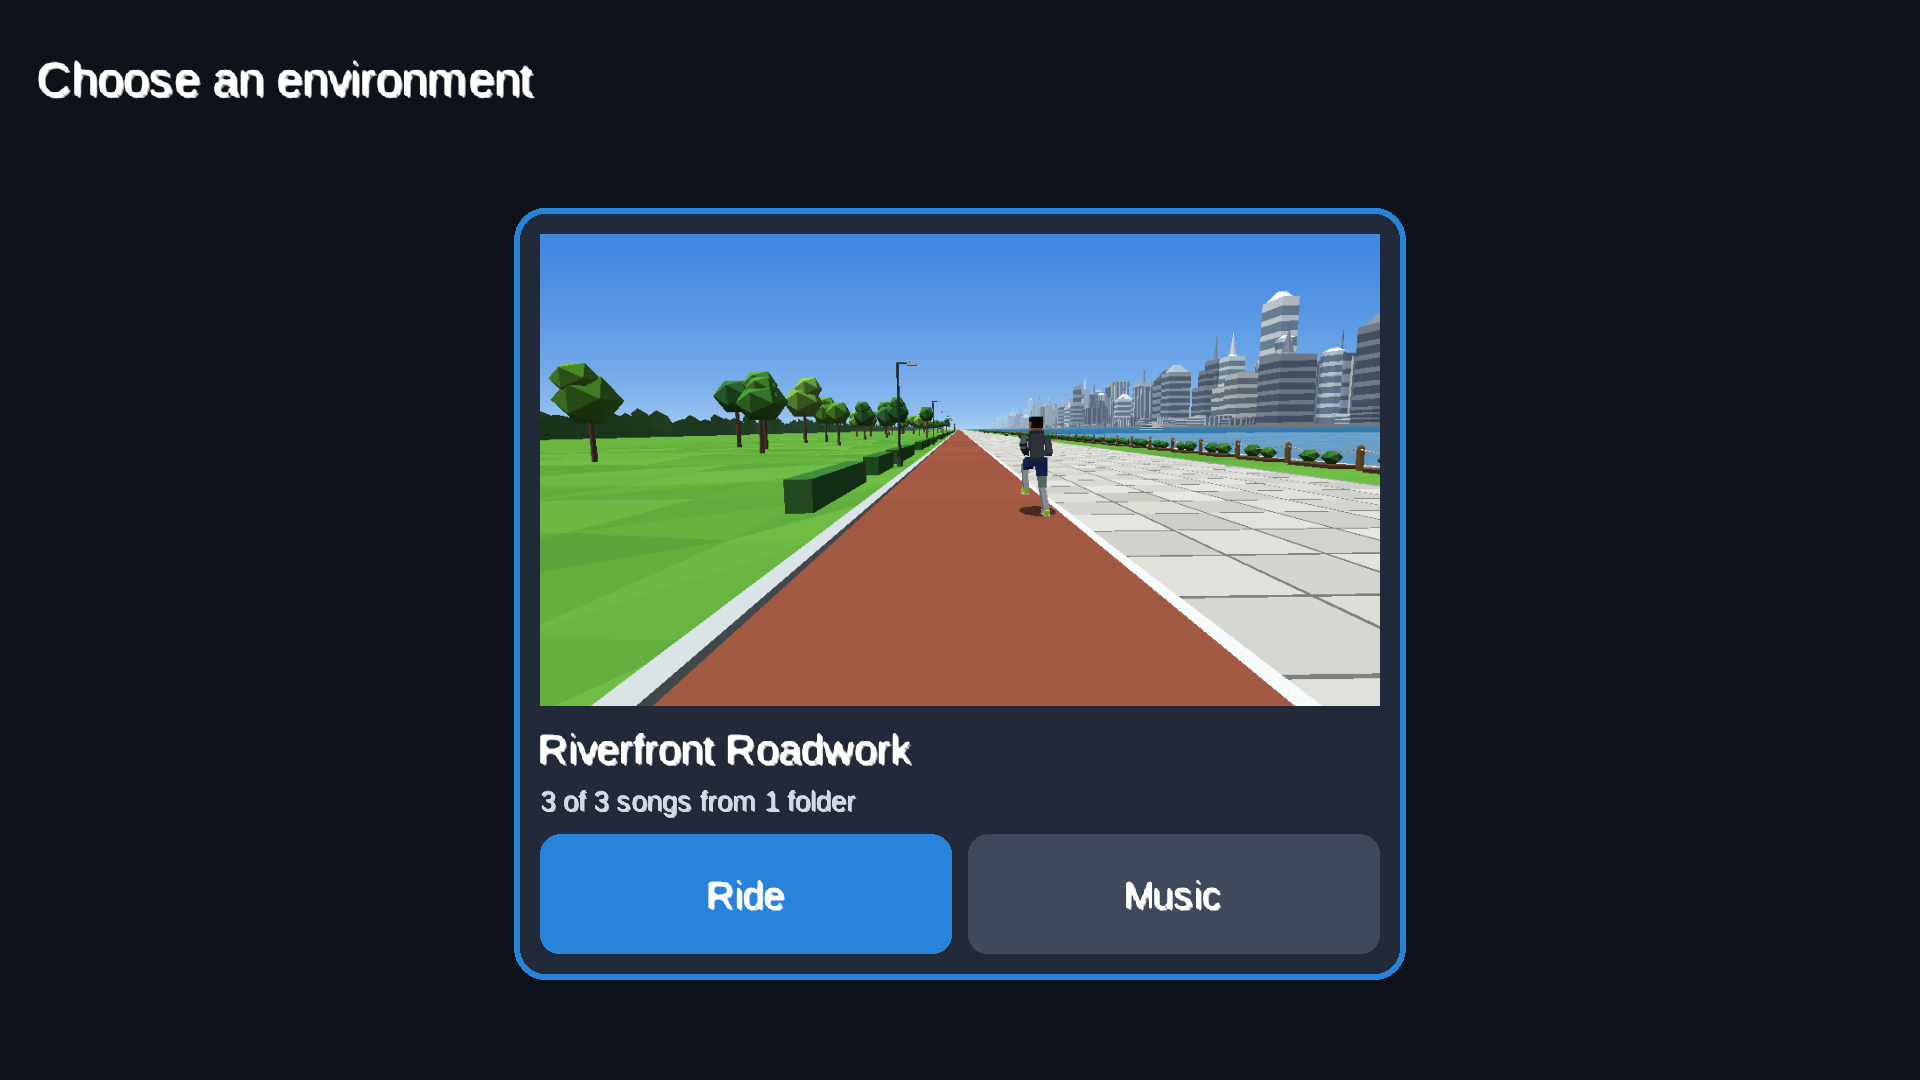
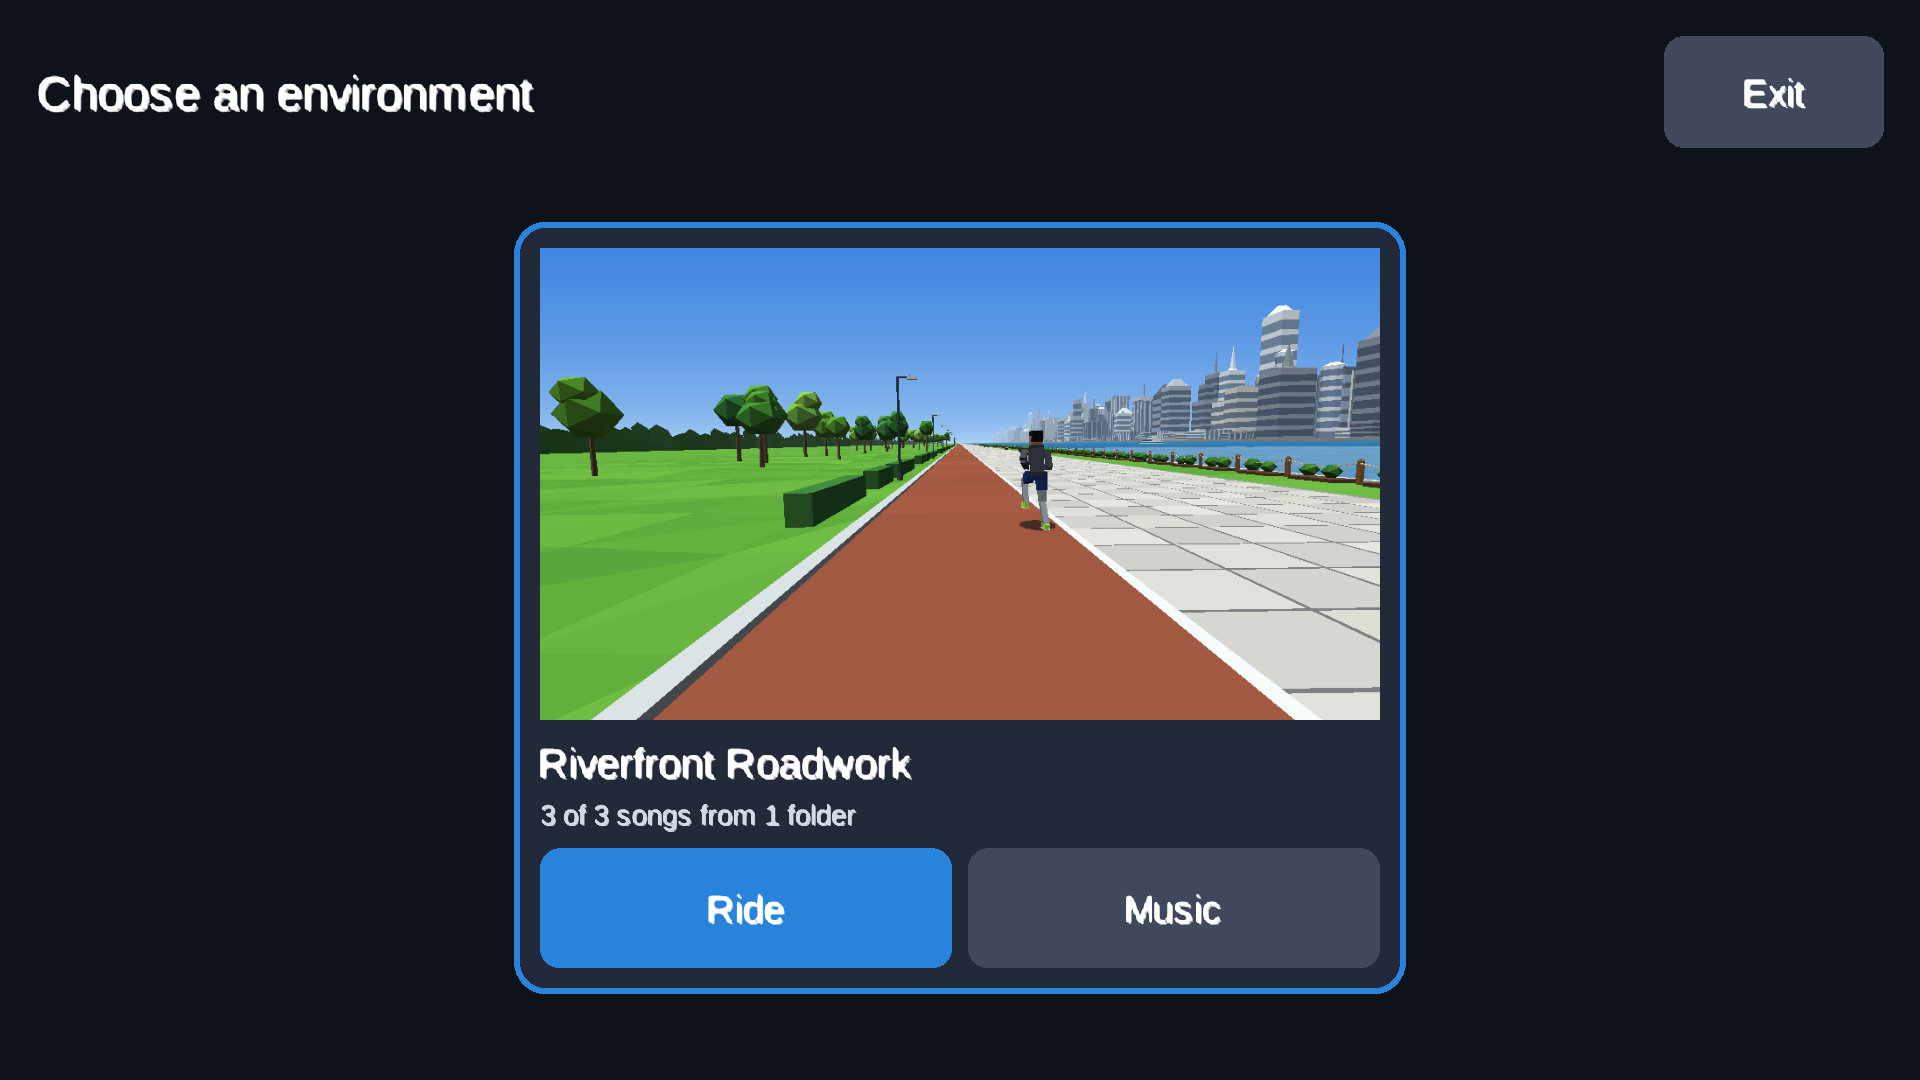
Roadwork: Exit button on the environment picker
The picker, the screen the app opens on, gets an Exit button at the right end of its heading strip. It closes the app the same way the back button and Escape already do. The heading strip grows from 84 to 112 px so the button is a full touch target, which moves the cards down slightly. PickerLayoutTest checks the button's place and size for every card count and screen shape; picker.png is re-rendered.

diff --git a/apps/roadwork/core/src/main/kotlin/dev/soloton/roadwork/Picker.kt b/apps/roadwork/core/src/main/kotlin/dev/soloton/roadwork/Picker.kt
@@ -28,6 +28,8 @@ import dev.soloton.api.PlaylistSummary
  * once into a framebuffer when the picker is shown (no HUD, no handlebars) and kept until it is
  * hidden. [renderPreviews] must be called outside any other framebuffer.
  *
+ * An Exit button at the top right closes the app.
+ *
  * Keys: left/right move the outline, Enter or space rides, M opens music settings, Escape or
  * Android's back button exits.
  */
@@ -61,6 +63,7 @@ internal class Picker(
     private val headerLayout = GlyphLayout()
     private val rideLayout = GlyphLayout()
     private val musicLayout = GlyphLayout()
+    private val exitLayout = GlyphLayout()
     private val titleLayouts = Array(environments.size) { GlyphLayout() }
     private val summaryLayouts = Array(environments.size) { GlyphLayout() }
     private val shownSummaries = arrayOfNulls<PlaylistSummary>(environments.size)
@@ -83,6 +86,7 @@ internal class Picker(
         layoutText(headerLayout, "Choose an environment", SCALE_HEADER, Color.WHITE)
         layoutText(rideLayout, "Ride", SCALE_BUTTON, Color.WHITE)
         layoutText(musicLayout, "Music", SCALE_BUTTON, Color.WHITE)
+        layoutText(exitLayout, "Exit", SCALE_BUTTON, Color.WHITE)
         val titleScale = if (layout.compact) SCALE_TITLE_COMPACT else SCALE_TITLE
         for (i in environments.indices) {
             layoutText(titleLayouts[i], environments[i].title, titleScale, Color.WHITE, layout.cards[i].title.width)
@@ -165,6 +169,8 @@ internal class Picker(
         camera.update()
         shapes.projectionMatrix = camera.combined
         shapes.begin(ShapeRenderer.ShapeType.Filled)
+        shapes.color = BUTTON
+        roundRect(layout.exit.x, layout.exit.y, layout.exit.width, layout.exit.height, 20f)
         for (i in environments.indices) {
             val c = layout.cards[i]
             if (i == highlight) {
@@ -205,6 +211,7 @@ internal class Picker(
         batch.begin()
         val h = layout.header
         drawText(headerLayout, SCALE_HEADER, h.x, h.y + (h.height + headerLayout.height) / 2f)
+        drawCentred(exitLayout, SCALE_BUTTON, layout.exit)
         val titleScale = if (layout.compact) SCALE_TITLE_COMPACT else SCALE_TITLE
         for (i in environments.indices) {
             val c = layout.cards[i]
@@ -263,6 +270,10 @@ internal class Picker(
     override fun touchDown(screenX: Int, screenY: Int, pointer: Int, button: Int): Boolean {
         val x = screenX * layout.width / Gdx.graphics.width
         val y = PickerLayout.HEIGHT - screenY * PickerLayout.HEIGHT / Gdx.graphics.height
+        if (layout.exit.contains(x, y)) {
+            listener.onExit()
+            return true
+        }
         for (i in environments.indices) {
             val c = layout.cards[i]
             when {

diff --git a/apps/roadwork/core/src/main/kotlin/dev/soloton/roadwork/PickerLayout.kt b/apps/roadwork/core/src/main/kotlin/dev/soloton/roadwork/PickerLayout.kt
@@ -9,7 +9,8 @@ import kotlin.math.min
  * tall, as wide as the screen's aspect ratio makes it (1920 at 16:9), origin at the bottom left.
  * Pure maths, so tests can check sizes and overlaps for any number of environments.
  *
- * One to four environments sit in a single row; five to eight in two rows. A card stacks a
+ * A heading strip runs across the top, with the Exit button at its right end. Below it, one to
+ * four environments sit in a single row; five to eight in two rows. A card stacks a
  * preview image, the title, the music summary and two buttons:
  *
  * ```
@@ -38,8 +39,11 @@ class PickerLayout {
     var width = 1920f
         private set
 
-    /** The strip across the top holding the screen's heading. */
+    /** The strip across the top holding the screen's heading and, at its right end, [exit]. */
     val header = Rectangle()
+
+    /** The Exit button, which closes the app. */
+    val exit = Rectangle()
 
     var cards: List<Card> = emptyList()
         private set
@@ -63,6 +67,7 @@ class PickerLayout {
         val buttonH = if (compact) BUTTON_HEIGHT_COMPACT else BUTTON_HEIGHT
 
         header.set(MARGIN, HEIGHT - MARGIN - HEADER_HEIGHT, width - 2 * MARGIN, HEADER_HEIGHT)
+        exit.set(header.x + header.width - EXIT_WIDTH, header.y, EXIT_WIDTH, HEADER_HEIGHT)
         val areaW = width - 2 * MARGIN
         val areaH = header.y - GAP - MARGIN
         val cardW = min((areaW - (columns - 1) * GAP) / columns, MAX_CARD_WIDTH)
@@ -97,7 +102,9 @@ class PickerLayout {
         const val MAX_CARDS = 8
         const val MARGIN = 36f
         const val GAP = 24f
-        const val HEADER_HEIGHT = 84f
+        /** Tall enough for the Exit button to be a full touch target. */
+        const val HEADER_HEIGHT = 112f
+        const val EXIT_WIDTH = 220f
         const val MAX_CARD_WIDTH = 880f
         const val BUTTON_HEIGHT = 120f
         const val BUTTON_HEIGHT_COMPACT = 112f

diff --git a/apps/roadwork/core/src/test/kotlin/dev/soloton/roadwork/PickerLayoutTest.kt b/apps/roadwork/core/src/test/kotlin/dev/soloton/roadwork/PickerLayoutTest.kt
@@ -86,6 +86,27 @@ class PickerLayoutTest {
     }
 
     @Test
+    fun theExitButtonSitsAtTheTopRightClearOfTheCardsAndIsBigEnoughToTouch() {
+        for (n in 1..PickerLayout.MAX_CARDS) {
+            for ((w, h) in listOf(1920 to 1080, 1280 to 720, 1440 to 1080, 2560 to 1080, 1920 to 1200)) {
+                val l = layout(n, w, h)
+                val where = "$n cards at ${w}x$h: exit ${l.exit}"
+                assertTrue(inside(l.header, l.exit), where)
+                assertTrue(l.exit.width >= PickerLayout.MIN_TOUCH && l.exit.height >= PickerLayout.MIN_TOUCH, where)
+                // Right end of the heading strip, a margin in from the screen's corner.
+                assertEquals(l.width - PickerLayout.MARGIN, l.exit.x + l.exit.width, 0.01f, where)
+                assertEquals(PickerLayout.HEIGHT - PickerLayout.MARGIN, l.exit.y + l.exit.height, 0.01f, where)
+                // The heading keeps at least half the strip.
+                assertTrue(l.exit.x - l.header.x >= l.header.width / 2f, where)
+                for (c in l.cards) {
+                    assertFalse(overlap(l.exit, c.bounds), where)
+                    assertTrue(l.exit.y - (c.bounds.y + c.bounds.height) >= PickerLayout.GAP - 0.01f, "$where is too close to a card")
+                }
+            }
+        }
+    }
+
+    @Test
     fun upToFourSitInOneRowAndFiveToEightInTwo() {
         for (n in 1..PickerLayout.MAX_CARDS) {
             val l = layout(n)

diff --git a/docs/ENVIRONMENTS.md b/docs/ENVIRONMENTS.md
@@ -16,10 +16,10 @@ Environments are listed in `Environments.all` (`apps/roadwork/core/src/main/kotl
 
 ## The picker
 
-The app opens on a picker ([screenshot](../apps/roadwork/docs/picker.png)): one card per environment, in registry order, with a preview of its scene, its title, a line about its music ("14 of 20 songs from 1 folder", or an amber line when nothing would play), a **Ride** button and a **Music** button that opens that environment's music settings. The environment ridden last is outlined. No music plays on the picker.
+The app opens on a picker ([screenshot](../apps/roadwork/docs/picker.png)): one card per environment, in registry order, with a preview of its scene, its title, a line about its music ("14 of 20 songs from 1 folder", or an amber line when nothing would play), a **Ride** button and a **Music** button that opens that environment's music settings. The environment ridden last is outlined. An **Exit** button at the top right closes the app. No music plays on the picker.
 
 - **Ride** starts a ride from zero in that environment: its playlist is selected, its scene built, music started.
-- During a ride, pause and tap **Environments**, or press back (Escape on desktop), to end the ride and return to the picker: music stops and the scene is disposed. Back on the picker exits the app.
+- During a ride, pause and tap **Environments**, or press back (Escape on desktop), to end the ride and return to the picker: music stops and the scene is disposed. On the picker, back or the **Exit** button exits the app.
 - The preview is one frame of the scene, 30 simulated seconds into a ride at the default pace, drawn into a framebuffer when the picker opens (no HUD, no handlebars) and freed when a ride starts. It comes from the same `EnvironmentScene` as the ride, so a new environment gets its preview for free.
 - The layout (`PickerLayout`) holds one to eight cards: up to four in one row, five to eight in two rows. `PickerLayoutTest` checks every count for overlaps and minimum sizes.
 
